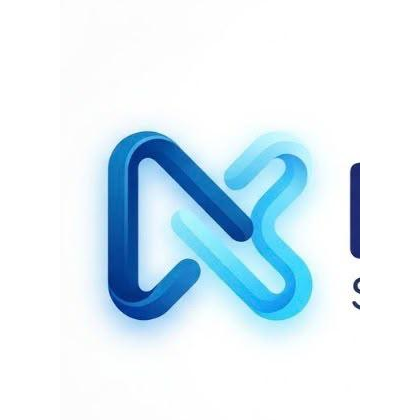
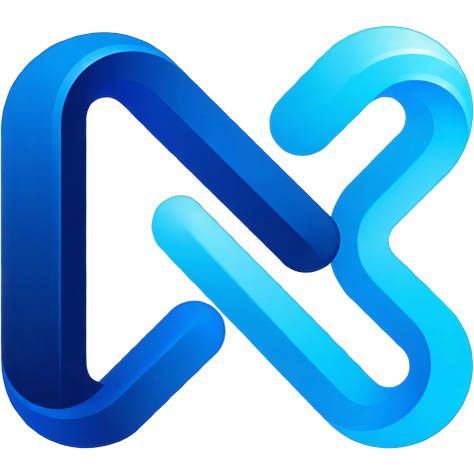
Integrar isotipo oficial de nexo
Usa el isotipo 3D como marca principal (navbar, hero, footer,
login, admin y favicon), con wordmark y tagline compuestos.

diff --git a/components/brand/nexo-logo.tsx b/components/brand/nexo-logo.tsx
@@ -3,31 +3,92 @@ import { cn } from '@/lib/utils'
 
 type NexoLogoProps = {
   className?: string
-  /** Altura visual del logo en px. */
+  /** Altura del isotipo en px. */
   height?: number
   priority?: boolean
+  /**
+   * - `mark`: solo isotipo
+   * - `wordmark`: isotipo + "nexo"
+   * - `full`: isotipo + "nexo" + "Salud y Beneficios"
+   * - `lockup`: PNG completo oficial (icono + textos en un archivo)
+   */
+  variant?: 'mark' | 'wordmark' | 'full' | 'lockup'
+  /** Texto claro (hero/footer oscuros). */
+  light?: boolean
 }
 
-/** Logo oficial exacto de nexo (archivo /public/nexo-logo.png). */
-export function NexoLogo({ className, height = 44, priority = false }: NexoLogoProps) {
-  // Asset original 1010×504
-  const width = Math.round(height * (1010 / 504))
+/** Marca nexo: isotipo oficial + wordmark. */
+export function NexoLogo({
+  className,
+  height = 40,
+  priority = false,
+  variant = 'full',
+  light = false,
+}: NexoLogoProps) {
+  if (variant === 'lockup') {
+    const width = Math.round(height * (1010 / 504))
+    return (
+      <span
+        className={cn('inline-flex max-w-full items-center', className)}
+        aria-label="nexo Salud y Beneficios"
+      >
+        <Image
+          src="/nexo-logo.png"
+          alt="nexo Salud y Beneficios"
+          width={width}
+          height={height}
+          priority={priority}
+          sizes={`${width}px`}
+          className="h-auto max-h-full w-auto max-w-full object-contain"
+          style={{ height, width: 'auto', maxWidth: '100%' }}
+        />
+      </span>
+    )
+  }
+
+  const markW = Math.round(height * (474 / 424))
+  const showWord = variant === 'wordmark' || variant === 'full'
+  const showTagline = variant === 'full'
+  const textColor = light ? 'text-white' : 'text-[#0B2B6B]'
+  const taglineColor = light ? 'text-white/75' : 'text-[#3A5A9A]'
 
   return (
     <span
-      className={cn('inline-flex max-w-full items-center', className)}
+      className={cn('inline-flex max-w-full items-center gap-2.5', className)}
       aria-label="nexo Salud y Beneficios"
     >
       <Image
-        src="/nexo-logo.png"
-        alt="nexo Salud y Beneficios"
-        width={width}
+        src="/nexo-isotipo.png"
+        alt=""
+        width={markW}
         height={height}
         priority={priority}
-        sizes={`${width}px`}
-        className="h-auto max-h-full w-auto max-w-full object-contain"
-        style={{ height, width: 'auto', maxWidth: '100%' }}
+        sizes={`${markW}px`}
+        className="shrink-0 object-contain"
+        style={{ height, width: 'auto' }}
+        aria-hidden
       />
+      {showWord && (
+        <span className="flex min-w-0 flex-col leading-none">
+          <span
+            className={cn(
+              'font-display font-bold tracking-tight lowercase',
+              textColor
+            )}
+            style={{ fontSize: Math.round(height * (showTagline ? 0.55 : 0.62)) }}
+          >
+            nexo
+          </span>
+          {showTagline && (
+            <span
+              className={cn('mt-1 font-medium tracking-wide', taglineColor)}
+              style={{ fontSize: Math.max(10, Math.round(height * 0.22)) }}
+            >
+              Salud y Beneficios
+            </span>
+          )}
+        </span>
+      )}
     </span>
   )
 }

diff --git a/app/page.tsx b/app/page.tsx
@@ -123,12 +123,8 @@ export default async function HomePage() {
         </div>
 
         <div className="container relative flex min-h-[100svh] flex-col justify-center py-24 md:py-28">
-          <div className="nexo-animate-in nexo-float w-full max-w-md md:max-w-lg">
-            <NexoLogo
-              height={150}
-              priority
-              className="rounded-2xl shadow-lg shadow-black/25"
-            />
+          <div className="nexo-animate-in nexo-float w-full max-w-xl">
+            <NexoLogo height={96} variant="full" light priority />
           </div>
 
           <h1 className="nexo-animate-in nexo-animate-in-delay-1 font-display mt-8 max-w-2xl text-2xl font-semibold leading-snug tracking-tight text-white/95 sm:text-3xl md:text-4xl">
@@ -296,7 +292,7 @@ export default async function HomePage() {
           }}
         />
         <div className="container relative text-center">
-          <NexoLogo height={72} className="mx-auto justify-center rounded-xl shadow-md" />
+          <NexoLogo height={56} variant="full" light className="mx-auto justify-center" />
           <h2 className="font-display mx-auto mt-6 max-w-2xl text-3xl font-bold tracking-tight sm:text-4xl md:text-5xl">
             Empezá a disfrutar nexo hoy
           </h2>

diff --git a/app/login/page.tsx b/app/login/page.tsx
@@ -73,7 +73,7 @@ export default function LoginPage() {
           />
           <div className="absolute inset-0 bg-[var(--nexo-ink)]/50" />
           <div className="absolute bottom-10 left-10">
-            <NexoLogo height={64} className="rounded-lg shadow-md" />
+            <NexoLogo height={52} variant="full" light />
             <p className="mt-3 max-w-xs text-sm text-white/70">Panel de administración</p>
           </div>
         </div>
@@ -81,7 +81,7 @@ export default function LoginPage() {
         <div className="flex w-full flex-col items-center justify-center gap-4 bg-white p-8 lg:w-1/2 lg:p-12">
           <div className="mx-auto w-full max-w-md">
             <Link href="/" className="mb-6 inline-flex lg:hidden">
-              <NexoLogo height={44} />
+              <NexoLogo height={40} variant="wordmark" />
             </Link>
             <h1 className="font-display mb-2 text-3xl font-bold text-[var(--nexo-ink)]">
               Iniciar sesión

diff --git a/components/layout/footer.tsx b/components/layout/footer.tsx
@@ -8,7 +8,7 @@ export function Footer() {
       <div className="container py-14">
         <div className="grid grid-cols-1 gap-10 md:grid-cols-4">
           <div className="space-y-4 md:col-span-1">
-            <NexoLogo height={56} className="rounded-lg shadow-sm" />
+            <NexoLogo height={48} variant="full" light />
             <p className="max-w-xs text-sm leading-relaxed text-white/65">
               Salud, telemedicina y beneficios para todo el país. Un solo nexo con tu bienestar.
             </p>

diff --git a/components/layout/navbar.tsx b/components/layout/navbar.tsx
@@ -25,7 +25,7 @@ export function Navbar() {
       <div className="container flex h-16 items-center">
         <div className="mr-8 flex items-center">
           <Link href="/" className="flex items-center" aria-label="nexo inicio">
-            <NexoLogo height={40} priority />
+            <NexoLogo height={36} variant="wordmark" priority />
           </Link>
         </div>
 

diff --git a/components/admin/sidebar.tsx b/components/admin/sidebar.tsx
@@ -63,7 +63,7 @@ export function AdminSidebar() {
     <div className="flex h-full flex-col border-r bg-muted/10">
       <div className="p-6">
         <Link href="/admin" className="flex items-center">
-          <NexoLogo height={36} />
+          <NexoLogo height={32} variant="wordmark" />
         </Link>
       </div>
 

diff --git a/app/layout.tsx b/app/layout.tsx
@@ -24,7 +24,7 @@ export const metadata: Metadata = {
   description:
     'Telemedicina con especialidades e inclusión, asesoría legal, descuentos en comercios, cursos, farmacias y turismo. Para todo el país.',
   icons: {
-    icon: '/nexo-mark.png',
+    icon: '/nexo-isotipo.png',
   },
 }
 
